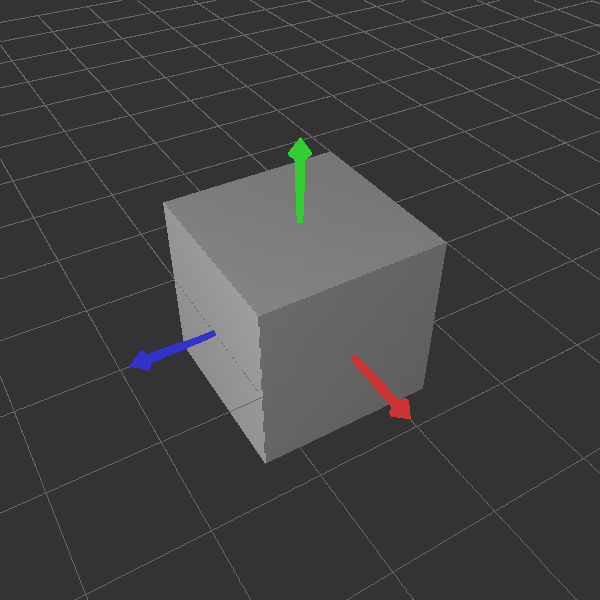
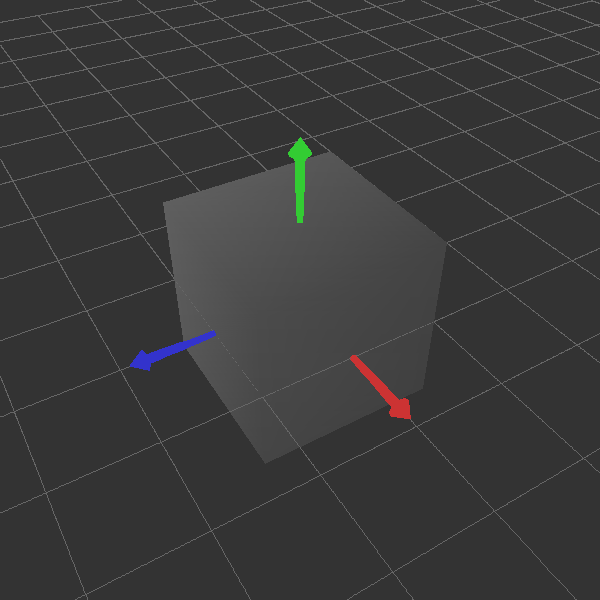
render, up next material

Changed region(s): [[0.27, 0.24, 0.75, 0.78]]

diff --git a/model/src/modeler/shape/Mesh.java b/model/src/modeler/shape/Mesh.java
@@ -138,7 +138,21 @@ public class Mesh {
 	 */
 	public void render(GL gl) {
 		// TODO: Part 1: Implement this method.
-		throw new UnsupportedOperationException();
+
+		gl.glBegin(GL.GL_TRIANGLES);
+
+		for (int i = 0 ; i < numTriangles; i++)
+		{
+			int v1Index = triangles.get(i * 3);
+			int v2Index = triangles.get(i * 3 + 1);
+			int v3Index = triangles.get(i * 3 + 2);
+
+			gl.glVertex3f(verts.get(v1Index * 3), verts.get(v1Index * 3 + 1), verts.get(v1Index * 3 + 2));
+			gl.glVertex3f(verts.get(v2Index * 3), verts.get(v2Index * 3 + 1), verts.get(v2Index * 3 + 2));
+			gl.glVertex3f(verts.get(v3Index * 3), verts.get(v3Index * 3 + 1), verts.get(v3Index * 3 + 2));
+		}
+
+		gl.glEnd();
 	}
 
 	/**
